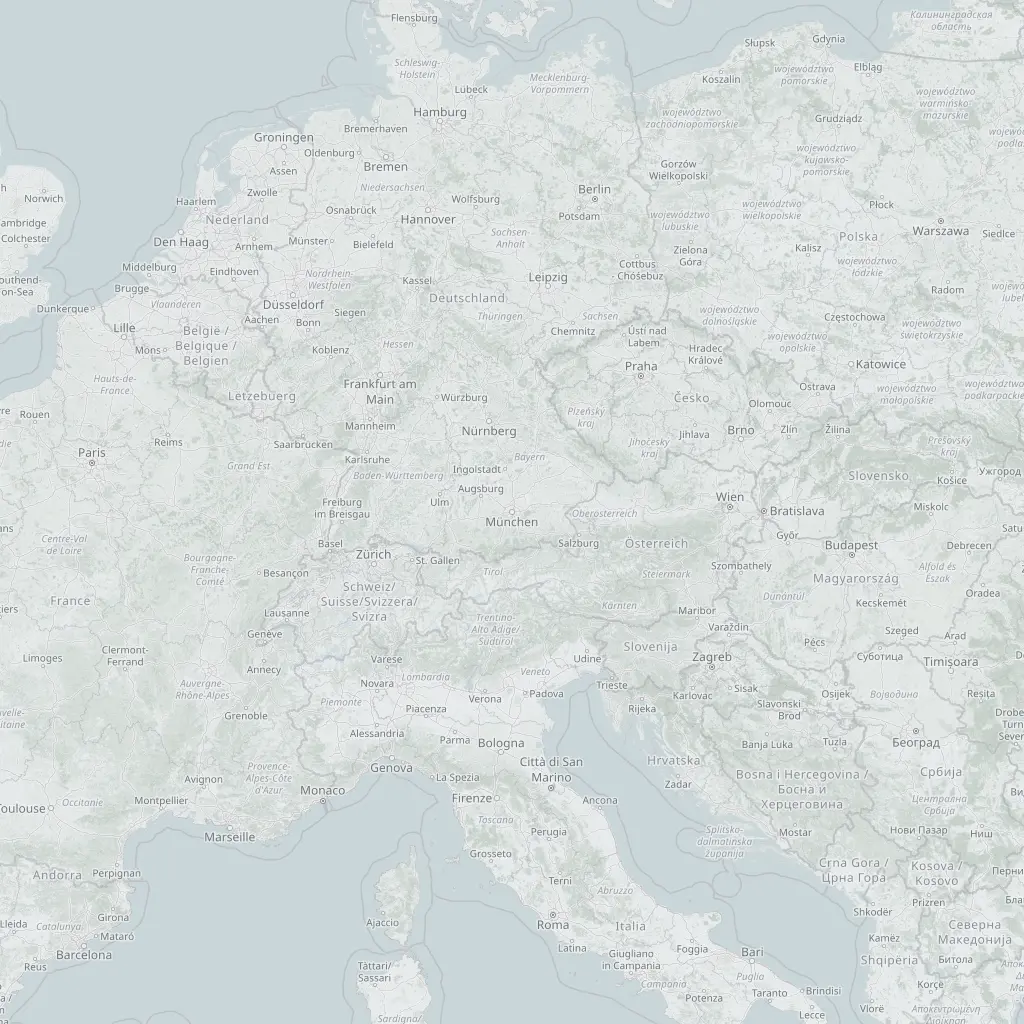
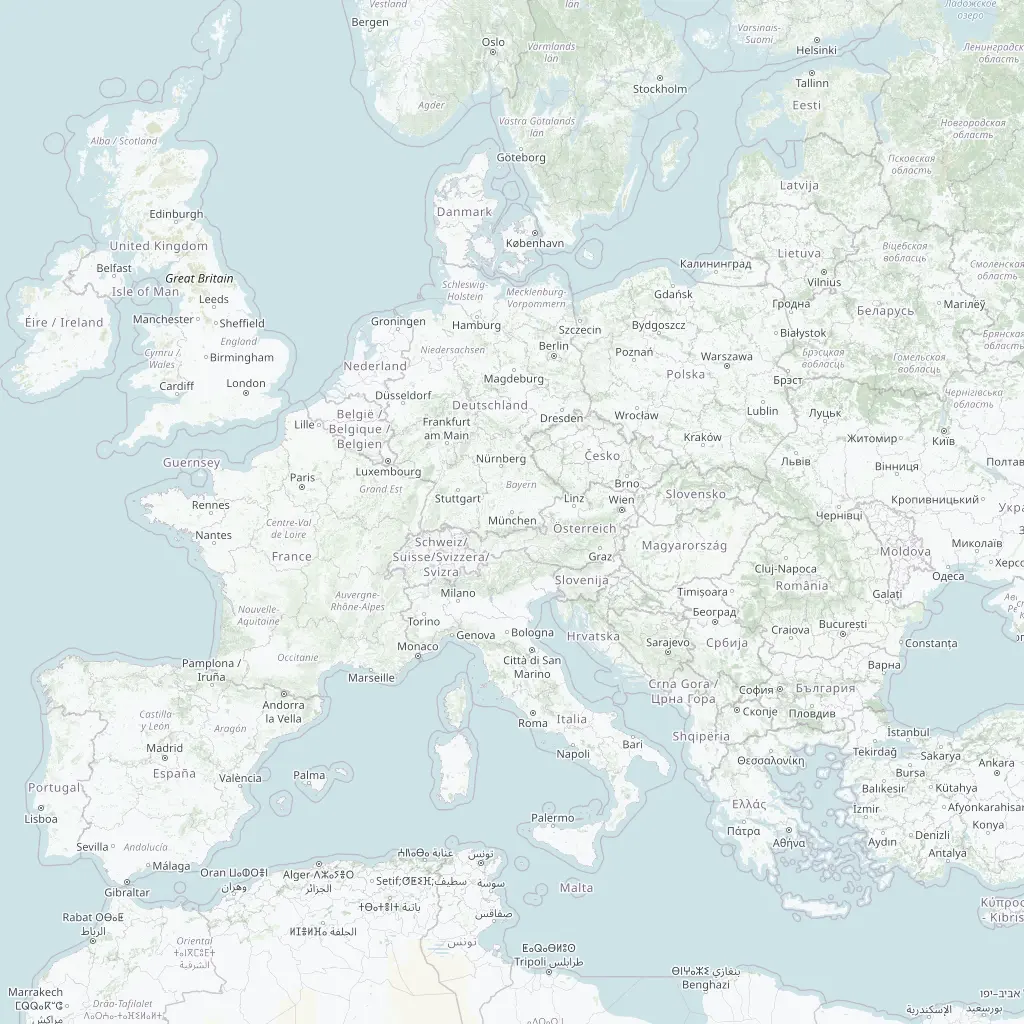
feat(site): basemap edge to edge, transport framing the map
- The basemap now fills the hero on any screen. It is re-cut at zoom 5, so
  the same 1024px texture covers four times the ground and the plane spans
  roughly 22 world units, past the frustum at every breakpoint. City pixel
  offsets and WORLD_PER_PX both scale with the zoom change, so every city
  stays exactly where it sits on the map.
- Much more visible: the CSS mask is gone, the ground's own alpha carries a
  long gentle falloff instead of a short one that read as a seam, and the
  asset is re-tinted with far less desaturation.
- The chapter line now runs along the bottom edge of the hero on one row,
  and play, restart and the chapter dots stack vertically against the right
  edge. Below 901px both return to the content flow.
- Layer opacity drops to 0.5 on phones, where the hero stacks tall and the
  copy sits directly over the map.

diff --git a/apps/site/app/components/loopScene.js b/apps/site/app/components/loopScene.js
@@ -13,18 +13,20 @@ const SNOW = 0xf8fafc;
 // public/assets/loop-basemap.webp (a 1024px window centred on Munich).
 // Map data (c) OpenStreetMap contributors, ODbL.
 const MAP_PX = 1024;
-const WORLD_PER_PX = 0.011;
+// Zoom 5 doubles the ground each pixel covers, so the plane spans twice the
+// world for the same texture size and reaches past the hero's edges.
+const WORLD_PER_PX = 0.022;
 const CITY_PX = {
   Munich: [0, 0],
-  Berlin: [82.97, -312.9],
-  Vienna: [218.08, -4.99],
-  Milan: [-108.9, 177.6],
-  Zurich: [-138.4, 51.3],
-  Prague: [129.97, -134.92],
-  Lyon: [-307.03, 158.12],
-  Krakow: [380.61, -134.15],
-  Utrecht: [-294.03, -280.94],
-  Graz: [175.56, 71.85],
+  Berlin: [41.48, -156.45],
+  Vienna: [109.04, -2.49],
+  Milan: [-54.43, 88.81],
+  Zurich: [-69.18, 25.66],
+  Prague: [64.99, -67.46],
+  Lyon: [-153.52, 79.06],
+  Krakow: [190.3, -67.07],
+  Utrecht: [-147.01, -140.47],
+  Graz: [87.78, 35.92],
 };
 const at = (name) => {
   const [dx, dy] = CITY_PX[name];
@@ -66,8 +68,10 @@ function mapAlphaTexture(focus) {
 
   // global falloff so the sheet never ends on a hard edge
   const base = ctx.createRadialGradient(size / 2, size / 2, size * 0.06, size / 2, size / 2, size / 2);
-  base.addColorStop(0, 'rgba(255,255,255,0.82)');
-  base.addColorStop(0.6, 'rgba(255,255,255,0.46)');
+  base.addColorStop(0, 'rgba(255,255,255,1)');
+  base.addColorStop(0.36, 'rgba(255,255,255,0.97)');
+  base.addColorStop(0.66, 'rgba(255,255,255,0.78)');
+  base.addColorStop(0.86, 'rgba(255,255,255,0.36)');
   base.addColorStop(1, 'rgba(255,255,255,0)');
   ctx.fillStyle = base;
   ctx.fillRect(0, 0, size, size);
@@ -233,11 +237,11 @@ export function createLoopScene({ mount, chapterSeconds, chapterCount }) {
   // Alpha falloff so the basemap dissolves into the backdrop instead of
   // ending on a hard rectangular edge.
   const groundAlpha = keep(mapAlphaTexture([
-    [CITY_PX.Munich[0], CITY_PX.Munich[1], 0.95, 0.2],
-    [CITY_PX.Berlin[0], CITY_PX.Berlin[1], 0.85, 0.19],
-    [CITY_PX.Vienna[0], CITY_PX.Vienna[1], 0.85, 0.19],
+    [CITY_PX.Munich[0], CITY_PX.Munich[1], 0.6, 0.13],
+    [CITY_PX.Berlin[0], CITY_PX.Berlin[1], 0.5, 0.12],
+    [CITY_PX.Vienna[0], CITY_PX.Vienna[1], 0.5, 0.12],
     // the corridor the transfer actually travels
-    [(CITY_PX.Munich[0] + CITY_PX.Berlin[0]) / 2, (CITY_PX.Munich[1] + CITY_PX.Berlin[1]) / 2, 0.5, 0.2],
+    [(CITY_PX.Munich[0] + CITY_PX.Berlin[0]) / 2, (CITY_PX.Munich[1] + CITY_PX.Berlin[1]) / 2, 0.3, 0.13],
   ]));
   const mapTex = keep(new THREE.TextureLoader().load('/assets/loop-basemap.webp'));
   mapTex.colorSpace = THREE.SRGBColorSpace;

diff --git a/apps/site/public/assets/css/site.css b/apps/site/public/assets/css/site.css
@@ -6133,14 +6133,15 @@ a.card h3:not(.card-title) {
   overflow: hidden;
   pointer-events: none;
   /* Fade the render out toward the page edges so it never ends on a seam. */
-  mask-image: radial-gradient(135% 118% at 62% 48%, #000 52%, transparent 94%);
+  /* Edge to edge: no mask, the ground's own alpha handles the falloff. */
   opacity: 1;
 }
 
 @media (max-width: 900px) {
+  /* The hero stacks tall on phones and the copy sits over the map, so the
+     layer drops back to stay legible. */
   .hero-anim-layer {
-    mask-image: radial-gradient(150% 95% at 50% 60%, #000 46%, transparent 90%);
-    opacity: 0.9;
+    opacity: 0.5;
   }
 }
 
@@ -6174,24 +6175,56 @@ a.card h3:not(.card-title) {
   margin-top: var(--space-8);
 }
 
-/* On a wide hero the transport sits in the map's bottom-right corner, just
-   above the basemap attribution. */
+/* On a wide hero the transport frames the map: the chapter line runs along
+   the bottom edge, the play and chapter controls sit vertically on the right. */
 @media (min-width: 901px) {
   .hero-figure {
     position: absolute;
-    right: var(--gutter);
-    bottom: var(--space-8);
-    width: min(430px, 40vw);
+    inset: 0;
+    width: auto;
     margin-top: 0;
+    pointer-events: none;
   }
 
   .hero-figure .loop-anim-caption {
-    justify-content: flex-end;
-    text-align: right;
+    position: absolute;
+    left: var(--gutter);
+    right: calc(var(--gutter) + 96px);
+    bottom: var(--space-6);
+    margin-top: 0;
+    min-height: 0;
+    align-items: baseline;
+    white-space: nowrap;
+    overflow: hidden;
+    text-overflow: ellipsis;
+    pointer-events: auto;
+  }
+
+  .hero-figure .loop-anim-copy {
+    overflow: hidden;
+    text-overflow: ellipsis;
   }
 
   .hero-figure .loop-anim-controls {
-    justify-content: flex-end;
+    position: absolute;
+    right: var(--gutter);
+    top: 50%;
+    transform: translateY(-50%);
+    flex-direction: column;
+    gap: var(--space-3);
+    margin-top: 0;
+    pointer-events: auto;
+  }
+
+  .hero-figure .loop-anim-dots {
+    flex-direction: column;
+    margin-left: 0;
+    margin-top: var(--space-1);
+  }
+
+  .hero-figure .loop-anim-dot {
+    width: 4px;
+    height: 22px;
   }
 }
 
